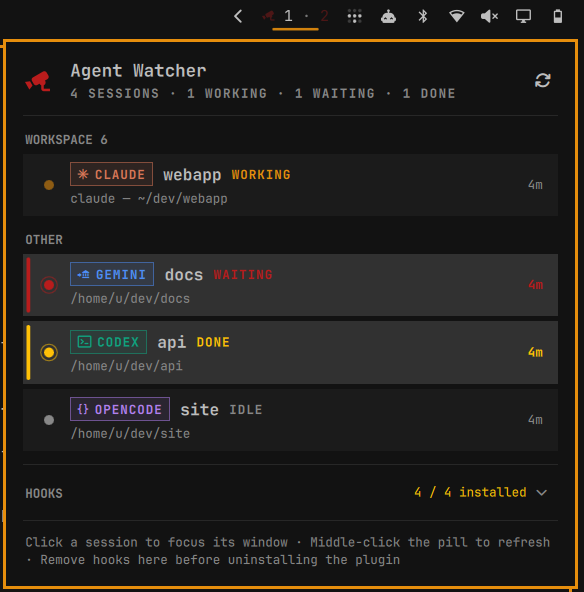
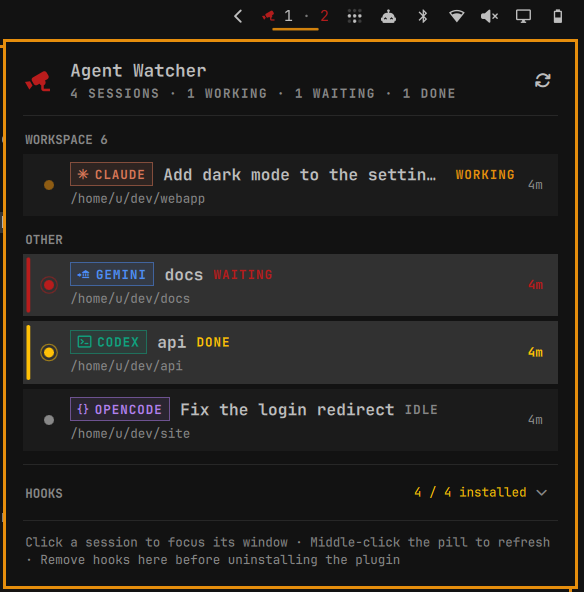
feat: name rows after the session (OpenCode titles + rename, Claude task summary), path underneath

diff --git a/hooks/opencode-agent-watcher.js b/hooks/opencode-agent-watcher.js
@@ -15,7 +15,7 @@ const HOOK_TIMEOUT_MS = 5000
 // happened to finish last.
 let queue = Promise.resolve()
 
-function send(event, sessionId, cwd) {
+function send(event, sessionId, cwd, title) {
   queue = queue
     .then(
       () =>
@@ -35,7 +35,7 @@ function send(event, sessionId, cwd) {
             child.on("error", finish)
             child.on("close", finish)
             child.stdin.on("error", () => {})
-            child.stdin.end(JSON.stringify({ session_id: sessionId, cwd: cwd }))
+            child.stdin.end(JSON.stringify({ session_id: sessionId, cwd: cwd, title: title || "" }))
           } catch (e) {
             finish() // never let a watcher failure surface inside the agent
           }
@@ -47,9 +47,11 @@ function send(event, sessionId, cwd) {
 
 export const AgentWatcher = async ({ directory }) => {
   const dirs = new Map() // main session id -> its directory
+  const titles = new Map() // main session id -> its current title
   const children = new Set() // sub-agent sessions (have parentID): ignored
   const busy = new Set() // sessions we have already reported as working
   const cwdOf = (id) => dirs.get(id) || directory
+  const titleOf = (id) => titles.get(id) || ""
   return {
     event: async ({ event }) => {
       const p = (event && event.properties) || {}
@@ -61,7 +63,17 @@ export const AgentWatcher = async ({ directory }) => {
             break
           }
           dirs.set(p.info.id, p.info.directory || directory)
-          send("session-start", p.info.id, cwdOf(p.info.id))
+          titles.set(p.info.id, p.info.title || "")
+          send("session-start", p.info.id, cwdOf(p.info.id), titleOf(p.info.id))
+          break
+        case "session.updated":
+          // OpenCode names sessions after the first exchange ("New session"
+          // becomes a summary); forward the new title without touching state.
+          if (!p.info || children.has(p.info.id)) break
+          if ((p.info.title || "") !== titleOf(p.info.id)) {
+            titles.set(p.info.id, p.info.title || "")
+            send("rename", p.info.id, cwdOf(p.info.id), titleOf(p.info.id))
+          }
           break
         case "session.status":
           if (children.has(p.sessionID)) break
@@ -70,25 +82,26 @@ export const AgentWatcher = async ({ directory }) => {
             // pending permission back to plain working.
             if (busy.has(p.sessionID)) break
             busy.add(p.sessionID)
-            send("prompt", p.sessionID, cwdOf(p.sessionID))
+            send("prompt", p.sessionID, cwdOf(p.sessionID), titleOf(p.sessionID))
           } else {
             busy.delete(p.sessionID)
           }
           break
         case "permission.asked":
-          if (!children.has(p.sessionID)) send("waiting", p.sessionID, cwdOf(p.sessionID))
+          if (!children.has(p.sessionID)) send("waiting", p.sessionID, cwdOf(p.sessionID), titleOf(p.sessionID))
           break
         case "permission.replied":
-          if (!children.has(p.sessionID)) send("tool-done", p.sessionID, cwdOf(p.sessionID))
+          if (!children.has(p.sessionID)) send("tool-done", p.sessionID, cwdOf(p.sessionID), titleOf(p.sessionID))
           break
         case "session.idle":
           busy.delete(p.sessionID)
-          if (!children.has(p.sessionID)) send("done", p.sessionID, cwdOf(p.sessionID))
+          if (!children.has(p.sessionID)) send("done", p.sessionID, cwdOf(p.sessionID), titleOf(p.sessionID))
           break
         case "session.deleted":
           if (p.info && !children.has(p.info.id)) {
             send("session-end", p.info.id, cwdOf(p.info.id))
             dirs.delete(p.info.id)
+            titles.delete(p.info.id)
             busy.delete(p.info.id)
           }
           break

diff --git a/test/model.test.js b/test/model.test.js
@@ -54,7 +54,7 @@ test("normalizeSession: valid file becomes a session with shell-side defaults", 
   assert.deepEqual(s, {
     key: "claude-abc", agent: "claude", sessionId: "abc", state: "done", cwd: "/home/u/proj",
     agentPid: 4242, windowAddress: "abc", updatedAt: 1755500000, lastEvent: "done",
-    seen: false, stateSince: 0
+    title: "", seen: false, stateSince: 0
   })
 })
 
@@ -101,6 +101,52 @@ test("projectName: basename of cwd with sane fallbacks", () => {
   assert.equal(Model.projectName("/"), "/")
   assert.equal(Model.projectName(""), "?")
   assert.equal(Model.projectName("relative"), "relative")
+})
+
+test("collapseHome: shortens the home prefix only", () => {
+  assert.equal(Model.collapseHome("/home/u/dev/api", "/home/u"), "~/dev/api")
+  assert.equal(Model.collapseHome("/home/u", "/home/u/"), "~")
+  assert.equal(Model.collapseHome("/home/uber/x", "/home/u"), "/home/uber/x")
+  assert.equal(Model.collapseHome("/tmp/x", ""), "/tmp/x")
+  assert.equal(Model.collapseHome("", "/home/u"), "")
+})
+
+test("informativeTitle: rejects agent names, terminal names, prompt and path titles", () => {
+  assert.equal(Model.informativeTitle("◐ Create Omarchy plugin for AI agent session monitoring", "claude"), "Create Omarchy plugin for AI agent session monitoring")
+  assert.equal(Model.informativeTitle("✳ Claude Code", "claude"), "")
+  assert.equal(Model.informativeTitle("claude", "claude"), "")
+  assert.equal(Model.informativeTitle("Gemini CLI", "gemini"), "")
+  assert.equal(Model.informativeTitle("gemini cli", "gemini"), "")
+  assert.equal(Model.informativeTitle("opencode", "opencode"), "")
+  assert.equal(Model.informativeTitle("foot", "codex"), "")
+  assert.equal(Model.informativeTitle("user@host: ~/proj", "codex"), "")
+  assert.equal(Model.informativeTitle("~/proj — bash", "codex"), "")
+  assert.equal(Model.informativeTitle("/usr/bin/zsh", "codex"), "")
+  assert.equal(Model.informativeTitle("Fix the login bug", "codex"), "Fix the login bug")
+  assert.equal(Model.informativeTitle("", "claude"), "")
+})
+
+test("sessionLabel: agent title > informative window title > project name", () => {
+  const oc = { agent: "opencode", cwd: "/home/u", title: "New session" }
+  assert.equal(Model.sessionLabel(oc, "opencode"), "New session")
+  const cl = { agent: "claude", cwd: "/home/u/dev/webapp", title: "" }
+  assert.equal(Model.sessionLabel(cl, "◑ Refactor the auth flow"), "Refactor the auth flow")
+  assert.equal(Model.sessionLabel(cl, "✳ Claude Code"), "webapp")
+  assert.equal(Model.sessionLabel(cl, ""), "webapp")
+  const home = { agent: "codex", cwd: "/home/u", title: "" }
+  assert.equal(Model.sessionLabel(home, "foot", "/home/u"), "~", "sessions in $HOME are labelled ~, not the username")
+  assert.equal(Model.sessionLabel(home, "foot"), "u", "without a home hint the basename is used")
+})
+
+test("sessionSubtitle: home-collapsed cwd, '?' when unknown", () => {
+  assert.equal(Model.sessionSubtitle({ cwd: "/home/u/dev/api" }, "/home/u"), "~/dev/api")
+  assert.equal(Model.sessionSubtitle({ cwd: "/home/u" }, "/home/u"), "~")
+  assert.equal(Model.sessionSubtitle({ cwd: "" }, "/home/u"), "?")
+})
+
+test("normalizeSession: keeps the optional title", () => {
+  assert.equal(Model.normalizeSession({ agent: "opencode", sessionId: "a", state: "idle", title: " New session " }).title, "New session")
+  assert.equal(Model.normalizeSession({ agent: "opencode", sessionId: "a", state: "idle" }).title, "")
 })
 
 test("cleanTitle: strips leading status glyphs and whitespace, keeps the text", () => {

diff --git a/Model.js b/Model.js
@@ -88,6 +88,7 @@ function normalizeSession(raw) {
     windowAddress: normalizeAddress(raw.windowAddress),
     updatedAt: Math.max(0, toInt(raw.updatedAt, 0)),
     lastEvent: trimString(raw.lastEvent),
+    title: trimString(raw.title),
     seen: false,
     stateSince: 0
   }
@@ -124,6 +125,50 @@ function projectName(cwd) {
 // spinner ◐◓◑◒, ✳, ✶ …). Keep the human part.
 function cleanTitle(title) {
   return trimString(String(title === undefined || title === null ? "" : title).replace(/^[^A-Za-z0-9~\/._"'`(\[{<$@]+/, ""))
+}
+
+// "/home/u/dev/api" -> "~/dev/api" when `home` is that prefix.
+function collapseHome(path, home) {
+  var p = trimString(path)
+  var h = trimString(home).replace(/\/+$/, "")
+  if (h === "" || p === "") return p
+  if (p === h) return "~"
+  if (p.indexOf(h + "/") === 0) return "~" + p.slice(h.length)
+  return p
+}
+
+// Window titles that carry no session information: the agent's own name, a
+// bare terminal name, a shell prompt ("user@host: ~/x") or a plain path.
+var TERMINAL_NAMES = ["foot", "alacritty", "kitty", "ghostty", "wezterm", "wezterm-gui", "terminal", "gnome-terminal", "konsole", "xterm", "bash", "zsh", "fish", "sh"]
+
+function informativeTitle(title, agent) {
+  var t = cleanTitle(title)
+  if (t === "") return ""
+  var lower = t.toLowerCase()
+  if (lower === trimString(agent).toLowerCase() || lower === agentName(agent).toLowerCase()) return ""
+  if (lower.replace(/\s+cli$/, "") === trimString(agent).toLowerCase()) return ""
+  if (TERMINAL_NAMES.indexOf(lower) !== -1) return ""
+  if (/^[^\s@]+@[^\s:]+:/.test(t)) return ""      // user@host: prompt titles
+  if (/^(~|\/)/.test(t)) return ""                   // path-like titles
+  return t
+}
+
+// Primary row label: the agent-supplied session name (OpenCode) beats the
+// live window title (Claude Code writes its task summary there), which beats
+// the project folder.
+function sessionLabel(session, windowTitle, home) {
+  if (session.title && trimString(session.title) !== "") return trimString(session.title)
+  var t = informativeTitle(windowTitle, session.agent)
+  if (t !== "") return t
+  // A session started in $HOME would otherwise be labelled with the username.
+  if (collapseHome(session.cwd, home) === "~") return "~"
+  return projectName(session.cwd)
+}
+
+// Secondary row line: where the session lives, with $HOME shortened.
+function sessionSubtitle(session, home) {
+  var c = collapseHome(session.cwd, home)
+  return c === "" ? "?" : c
 }
 
 function formatElapsed(sinceSec, nowSec) {
@@ -370,6 +415,10 @@ if (typeof module !== "undefined") {
     parseSnapshotResult: parseSnapshotResult,
     parseSnapshot: parseSnapshot,
     projectName: projectName,
+    collapseHome: collapseHome,
+    informativeTitle: informativeTitle,
+    sessionLabel: sessionLabel,
+    sessionSubtitle: sessionSubtitle,
     cleanTitle: cleanTitle,
     formatElapsed: formatElapsed,
     normalizeColor: normalizeColor,

diff --git a/Panel.qml b/Panel.qml
@@ -126,11 +126,14 @@ Panel {
     return root.mutedForeground
   }
 
-  function titleFor(session) {
+  // Live window title of a session (Claude Code writes its task summary there).
+  function windowTitleFor(session) {
     var win = session.windowAddress !== "" ? root.lookup[session.windowAddress] : null
-    var title = win ? Model.cleanTitle(win.title) : ""
-    return title !== "" ? title : session.cwd
+    return win ? win.title : ""
   }
+
+  function labelFor(session) { return Model.sessionLabel(session, windowTitleFor(session), Color.home) }
+  function subtitleFor(session) { return Model.sessionSubtitle(session, Color.home) }
 
   function focusRow(session) {
     if (root.host) root.host.focusSession(session)
@@ -451,7 +454,7 @@ Panel {
 
                     Text {
                       anchors.verticalCenter: parent.verticalCenter
-                      text: Model.projectName(row.modelData.cwd)
+                      text: root.labelFor(row.modelData)
                       color: root.barForeground
                       font.family: root.fontFamily
                       font.pixelSize: Style.font.subtitle
@@ -474,7 +477,7 @@ Panel {
 
                   Text {
                     width: parent.width
-                    text: root.titleFor(row.modelData)
+                    text: root.subtitleFor(row.modelData)
                     color: root.dimForeground
                     font.family: root.fontFamily
                     font.pixelSize: Style.font.caption

diff --git a/README.md b/README.md
@@ -57,6 +57,12 @@ plugin directory and would otherwise fail on every agent turn.
 Pill: ` 2 · 1` = 2 sessions working, 1 needs attention. Dimmed icon = no
 sessions. Blink colors come from your theme (`green` / `yellow`).
 
+Each row is named after the session: OpenCode's session title (it renames
+itself after the first exchange), Claude Code's task summary (read from the
+terminal title it sets), otherwise the project folder; the working directory
+sits underneath. Every agent has its own mark and color so rows are easy to
+tell apart at a glance.
+
 IPC (for keybindings): `omarchy-shell io.github.5d0tal1gat0r.agent-watcher toggle|open|close|refresh`
 
 ## Configure
